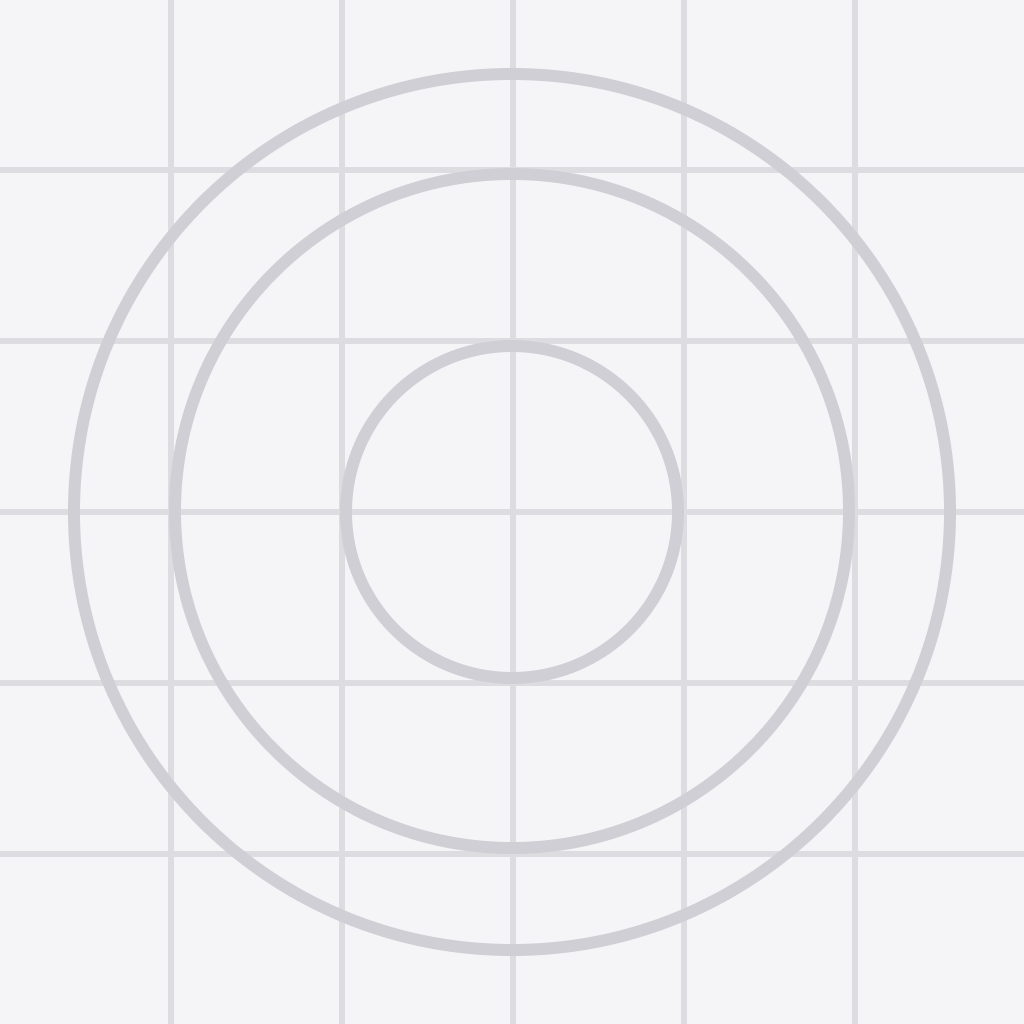
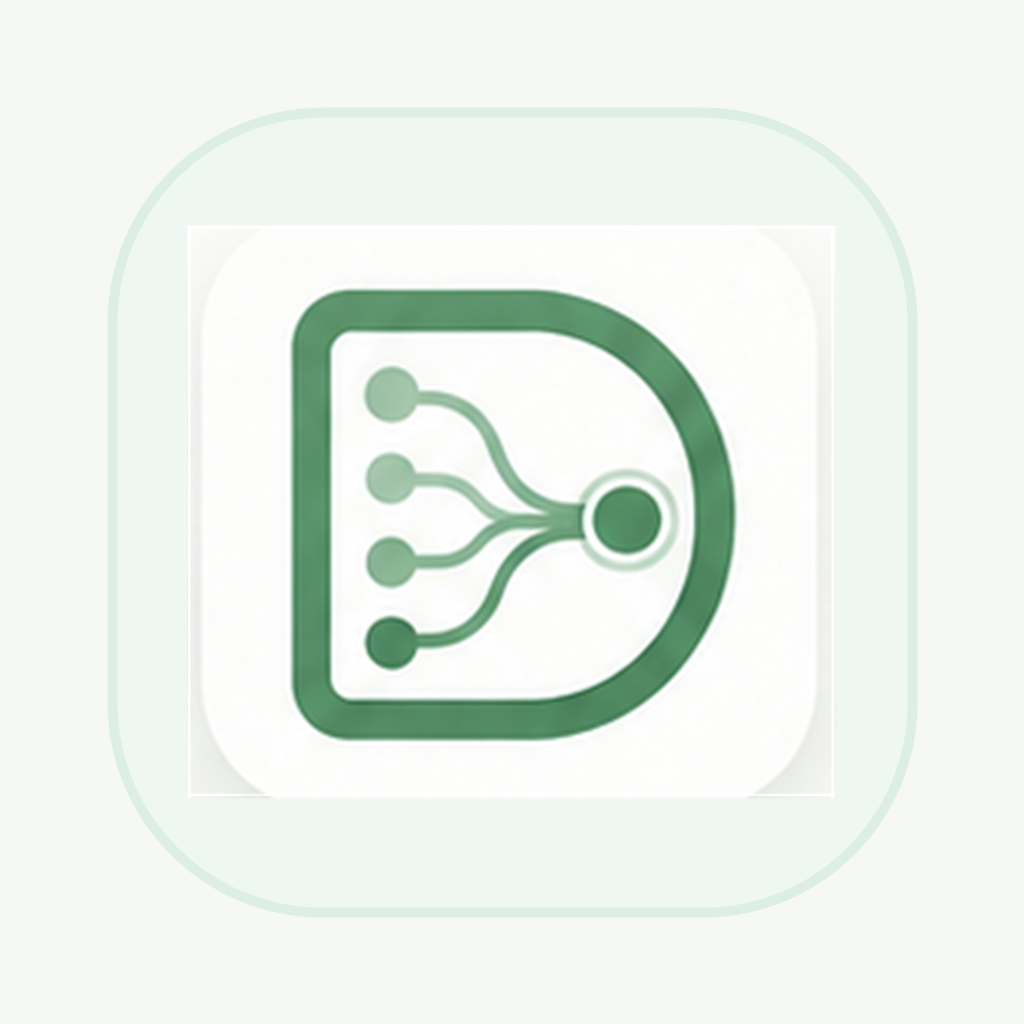
Great update

diff --git a/src/components/ui/LoadingDots.tsx b/src/components/ui/LoadingDots.tsx
@@ -1,0 +1,71 @@
+import { useEffect, useRef } from 'react';
+import { Animated, StyleSheet, View } from 'react-native';
+
+import { COLORS } from '../../constants/colors';
+
+const DOTS = [0, 1, 2, 3] as const;
+
+export function LoadingDots() {
+  const progress = useRef(new Animated.Value(0)).current;
+
+  useEffect(() => {
+    const animation = Animated.loop(
+      Animated.timing(progress, {
+        toValue: 4,
+        duration: 1400,
+        useNativeDriver: true,
+      })
+    );
+
+    animation.start();
+
+    return () => {
+      animation.stop();
+    };
+  }, [progress]);
+
+  return (
+    <View style={styles.container}>
+      {DOTS.map((index) => {
+        const opacity = progress.interpolate({
+          inputRange: [index, index + 0.15, index + 0.85, index + 1],
+          outputRange: [0.35, 1, 1, 0.35],
+          extrapolate: 'clamp',
+        });
+        const scale = progress.interpolate({
+          inputRange: [index, index + 0.5, index + 1],
+          outputRange: [0.9, 1.18, 0.9],
+          extrapolate: 'clamp',
+        });
+
+        return (
+          <Animated.View
+            key={index}
+            style={[
+              styles.dot,
+              {
+                opacity,
+                transform: [{ scale }],
+              },
+            ]}
+          />
+        );
+      })}
+    </View>
+  );
+}
+
+const styles = StyleSheet.create({
+  container: {
+    flexDirection: 'row',
+    alignItems: 'center',
+    justifyContent: 'center',
+    gap: 10,
+  },
+  dot: {
+    width: 9,
+    height: 9,
+    borderRadius: 999,
+    backgroundColor: COLORS.accent,
+  },
+});

diff --git a/src/components/ui/BrandedLoadingScreen.tsx b/src/components/ui/BrandedLoadingScreen.tsx
@@ -1,0 +1,70 @@
+import { Image, StyleSheet, Text, View } from 'react-native';
+
+import { COLORS } from '../../constants/colors';
+import { LoadingDots } from './LoadingDots';
+
+export function BrandedLoadingScreen() {
+  return (
+    <View style={styles.screen}>
+      <View style={styles.center}>
+        <Image
+          source={require('../../../assets/branding/logo/logo-mark.png')}
+          style={styles.logo}
+          resizeMode="contain"
+        />
+        <Text style={styles.brand}>DeciMatrix</Text>
+        <LoadingDots />
+      </View>
+
+      <View style={styles.waveBack} />
+      <View style={styles.waveFront} />
+    </View>
+  );
+}
+
+const styles = StyleSheet.create({
+  screen: {
+    flex: 1,
+    alignItems: 'center',
+    justifyContent: 'center',
+    overflow: 'hidden',
+    backgroundColor: COLORS.background,
+  },
+  center: {
+    zIndex: 2,
+    alignItems: 'center',
+    gap: 18,
+    marginTop: -40,
+  },
+  logo: {
+    width: 132,
+    height: 118,
+  },
+  brand: {
+    fontSize: 34,
+    fontWeight: '900',
+    color: COLORS.textPrimary,
+  },
+  waveBack: {
+    position: 'absolute',
+    right: -130,
+    bottom: -95,
+    width: 460,
+    height: 210,
+    borderRadius: 150,
+    backgroundColor: COLORS.accentLight,
+    opacity: 0.72,
+    transform: [{ rotate: '-8deg' }],
+  },
+  waveFront: {
+    position: 'absolute',
+    bottom: -118,
+    left: -120,
+    width: 520,
+    height: 240,
+    borderRadius: 170,
+    backgroundColor: COLORS.accent,
+    opacity: 0.2,
+    transform: [{ rotate: '8deg' }],
+  },
+});

diff --git a/app/_layout.tsx b/app/_layout.tsx
@@ -1,8 +1,26 @@
 import { Stack } from 'expo-router';
+import { useEffect, useState } from 'react';
 
+import { BrandedLoadingScreen } from '../src/components/ui/BrandedLoadingScreen';
 import { ToastProvider } from '../src/components/ui/Toast';
 
 export default function RootLayout() {
+  const [isLoadingVisible, setIsLoadingVisible] = useState(true);
+
+  useEffect(() => {
+    const timeoutId = setTimeout(() => {
+      setIsLoadingVisible(false);
+    }, 1100);
+
+    return () => {
+      clearTimeout(timeoutId);
+    };
+  }, []);
+
+  if (isLoadingVisible) {
+    return <BrandedLoadingScreen />;
+  }
+
   return (
     <ToastProvider>
       <Stack screenOptions={{ headerShown: false }}>